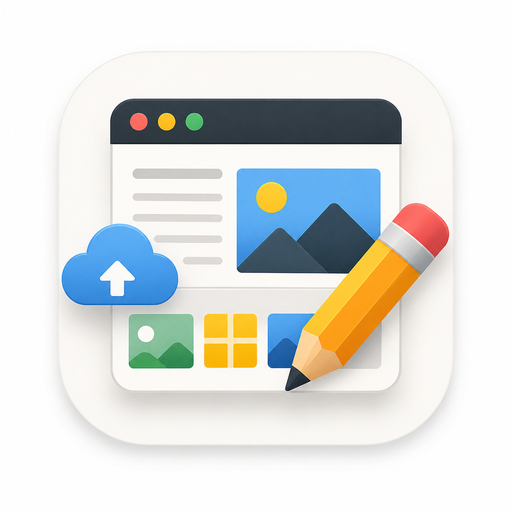
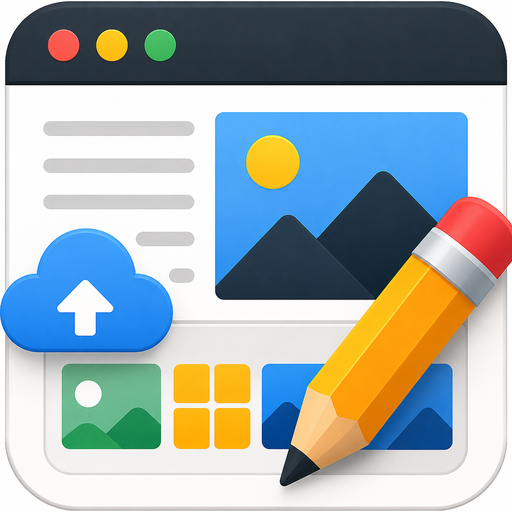
docs: remove per-cell active-cell persistence from DEFERRED (non-issue)

diff --git a/docs/DEFERRED.md b/docs/DEFERRED.md
@@ -26,9 +26,6 @@ Format: **item** — _revisit when:_ trigger.
   per-sidecar (global to every post using the image). _Revisit when:_
   an author wants the same image cropped differently in two posts.
 - **Container directive form for galleries** — leaf directive can't carry per-image captions. _Revisit when:_ per-image captions inside a multi-image directive are needed.
-- **Per-cell active-cell persistence** — selection resets to null when
-  leaving and returning to a multi-image figure. _Revisit when:_ first
-  author feedback on multi-image editing.
 - **Cross-figure image move** — drag an image from one figure into
   another (two-node PM transaction + emptied-source deletion).
   _Revisit when:_ an author wants an image moved between two figures.

diff --git a/README.md b/README.md
@@ -1,5 +1,5 @@
 <h1> rkr-blog - simple offline blogging </h1>
-<img src="rkr-blog.png" alt="rkr-blog icon" align="right" width="40%"/>
+<img style="z-index=100" src="rkr-blog.png" alt="rkr-blog icon" align="right" width="40%"/>
 
 
 A blog where writing and images work together naturally. Bring in photos from your desktop, Google Drive, OneDrive, or any URL; arrange them in rich layouts; publish. No markup, no plugins, no external services.